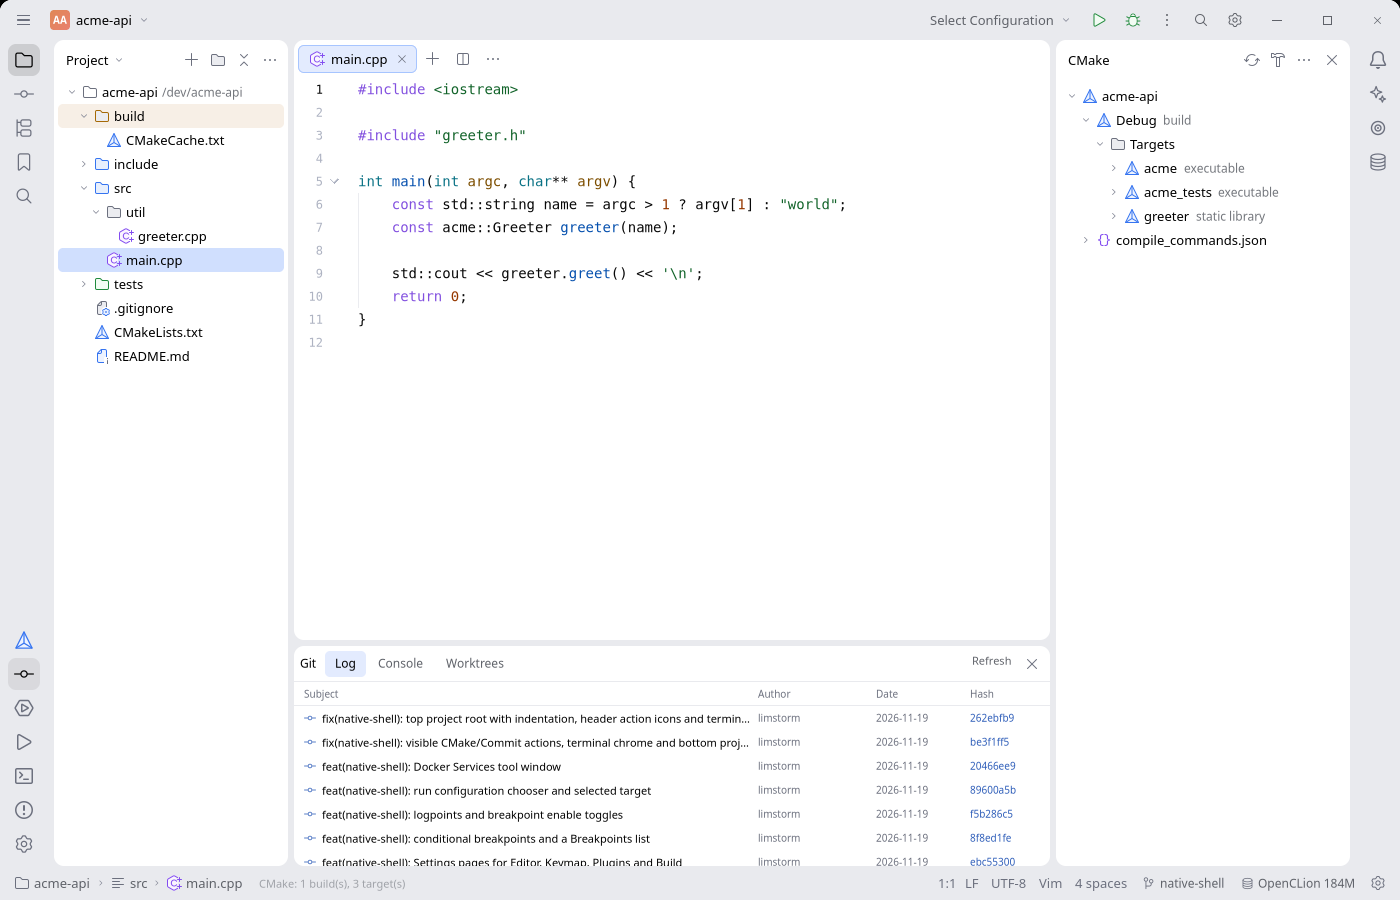
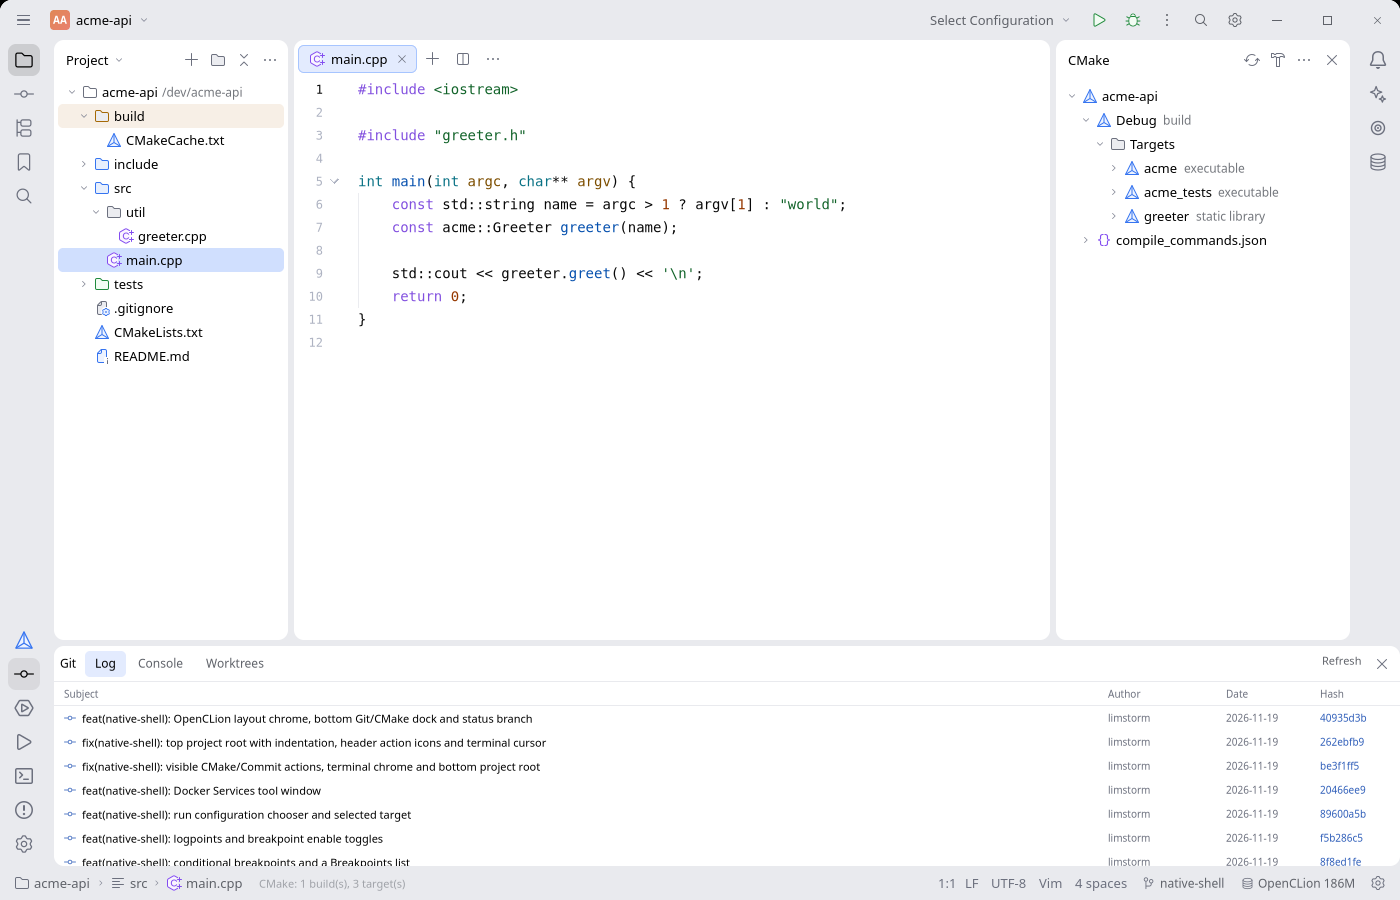
fix(native-shell): full-width bottom dock and clipped Git log columns
The bottom tool area now spans the full width below the Project, editor and CMake panels (the left rail stays full height), matching the installed OpenCLion layout. Git and CMake still switch inside that one dock. Git log rows constrain their subject column and truncate instead of running under author/date.

diff --git a/native-shell/src/ui/mod.rs b/native-shell/src/ui/mod.rs
@@ -63,28 +63,40 @@ pub fn chrome(state: State, pal: Palette) -> impl IntoElement {
         .font_family(UI_FONT.family)
         .child(titlebar::bar(state, pal))
         .child(
-            view()
-                .flex_1()
-                .flex_row()
-                .min_h(px(0.0))
-                .w_full()
-                .gap(px(6.0))
-                .child(rail::left_rail(state, pal))
-                .child(dynamic(move || state.show_left.get().then(|| left_panel(state, pal).into_element())))
-                .child(
-                    view()
-                        .flex_1()
-                        .flex_col()
-                        .min_w(px(200.0))
-                        .min_h(px(0.0))
-                        .gap(px(6.0))
-                        .child(editor_panel::editor_area(state, pal))
-                        .child(dynamic(move || {
-                            state.show_bottom.get().then(|| panels::bottom_panel(state, pal).into_element())
-                        })),
-                )
-                .child(dynamic(move || state.show_right.get().then(|| panels::right_panel(state, pal).into_element())))
-                .child(rail::right_rail(state, pal)),
+            view().flex_1().flex_row().min_h(px(0.0)).w_full().gap(px(6.0)).child(rail::left_rail(state, pal)).child(
+                view()
+                    .flex_1()
+                    .flex_col()
+                    .min_w(px(0.0))
+                    .min_h(px(0.0))
+                    .gap(px(6.0))
+                    .child(
+                        view()
+                            .flex_1()
+                            .flex_row()
+                            .min_h(px(0.0))
+                            .w_full()
+                            .gap(px(6.0))
+                            .child(dynamic(move || {
+                                state.show_left.get().then(|| left_panel(state, pal).into_element())
+                            }))
+                            .child(
+                                view()
+                                    .flex_1()
+                                    .flex_col()
+                                    .min_w(px(200.0))
+                                    .min_h(px(0.0))
+                                    .child(editor_panel::editor_area(state, pal)),
+                            )
+                            .child(dynamic(move || {
+                                state.show_right.get().then(|| panels::right_panel(state, pal).into_element())
+                            }))
+                            .child(rail::right_rail(state, pal)),
+                    )
+                    .child(dynamic(move || {
+                        state.show_bottom.get().then(|| panels::bottom_panel(state, pal).into_element())
+                    })),
+            ),
         )
         .child(status::status_bar(state, pal))
         .child(overlay::overlays(state, pal))

diff --git a/native-shell/README.md b/native-shell/README.md
@@ -45,7 +45,7 @@ backend uses.
 | Configure          | `cmake -S . -B build` + `ide_cmake::request`   | click the configuration widget; output streams into the Terminal panel                                                                                                                           |
 | Build / Run        | `cmake --build … --target …` + the artifact    | title-bar green Run; output and the program's stdout land in the Terminal                                                                                                                        |
 | Run configurations | `ide-cmake` executables                        | the title-bar widget opens a chooser of CMake executable targets; the selected target drives Run, Debug and the Run tool window                                                                  |
-| Git / Commit       | `ide-vcs` (`status`, `stage`, `commit`, `log`) | bottom Git dock (Log/Console/Worktrees, Ctrl+K or Alt+9), Commit message/button in the left Commit tool window; header commit/pull/refresh icons                                                 |
+| Git / Commit       | `ide-vcs` (`status`, `stage`, `commit`, `log`) | full-width bottom Git dock (Log/Console/Worktrees, Ctrl+K or Alt+9) and a left Commit tool window with message/Commit; header commit/pull/refresh icons                                          |
 | Find in Files      | `ide-search` (ripgrep engine)                  | Ctrl+Shift+F search panel with parallel, ignore-aware results                                                                                                                                    |
 | clangd diagnostics | `ide-lsp` + `ide-language`                     | documents open/change/close on clangd; native editor squiggles and Problems rows; server state in the status bar                                                                                 |
 | clangd completion  | `ide-lsp` completion                           | typing (and `.`/`->`/`::`/`<`) opens the native completion list with kinds, details and documentation                                                                                            |
@@ -61,6 +61,7 @@ backend uses.
 | Project tree       | `std::fs` walk + nsh views                     | root on top, 12pt indentation per level, clicking the root collapses/expands the whole project                                                                                                   |
 | Title bar          | nsh window controls + native views             | ☰ application menu at the left, custom minimize/maximize/close at the right, project/run widgets in between                                                                                     |
 | Status bar         | `ide-vcs` + `/proc/self/statm`                 | current branch and OpenCLion RSS at the right; the branch button opens the Git dock                                                                                                              |
+| Bottom dock        | native views + `ide-vcs`/`ide-cmake`           | spans the full width below Project/editor/CMake and shows exactly one tool: Git or CMake, switched from the bottom-left rail buttons                                                             |
 | File watcher       | `notify` + `notify-debouncer-full`             | external creates/renames/deletes rebuild the tree and refresh git status                                                                                                                         |
 | Settings           | nsh `Storage` + `serde_json`                   | Appearance/Editor/Keymap/Plugins/Build pages; font size, layout and recent projects persist; Keymap lists shortcuts, Plugins the bundled integrations                                            |
 
